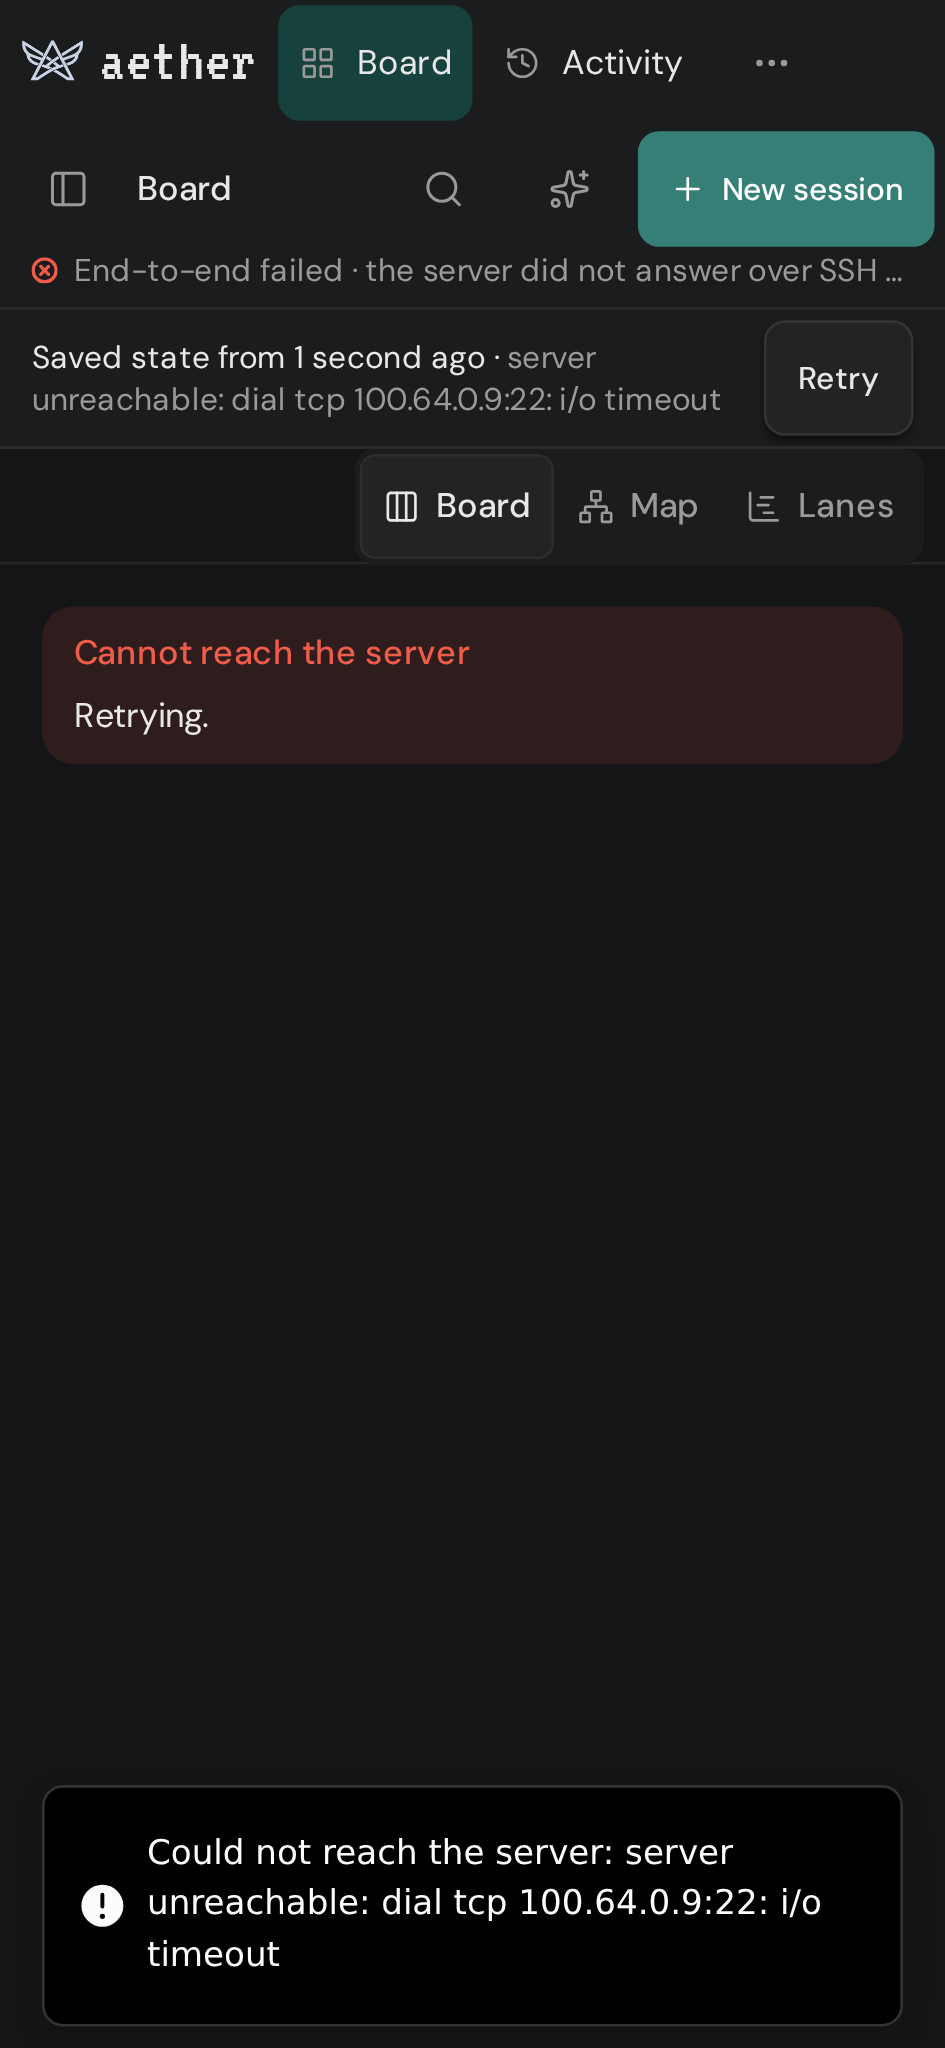
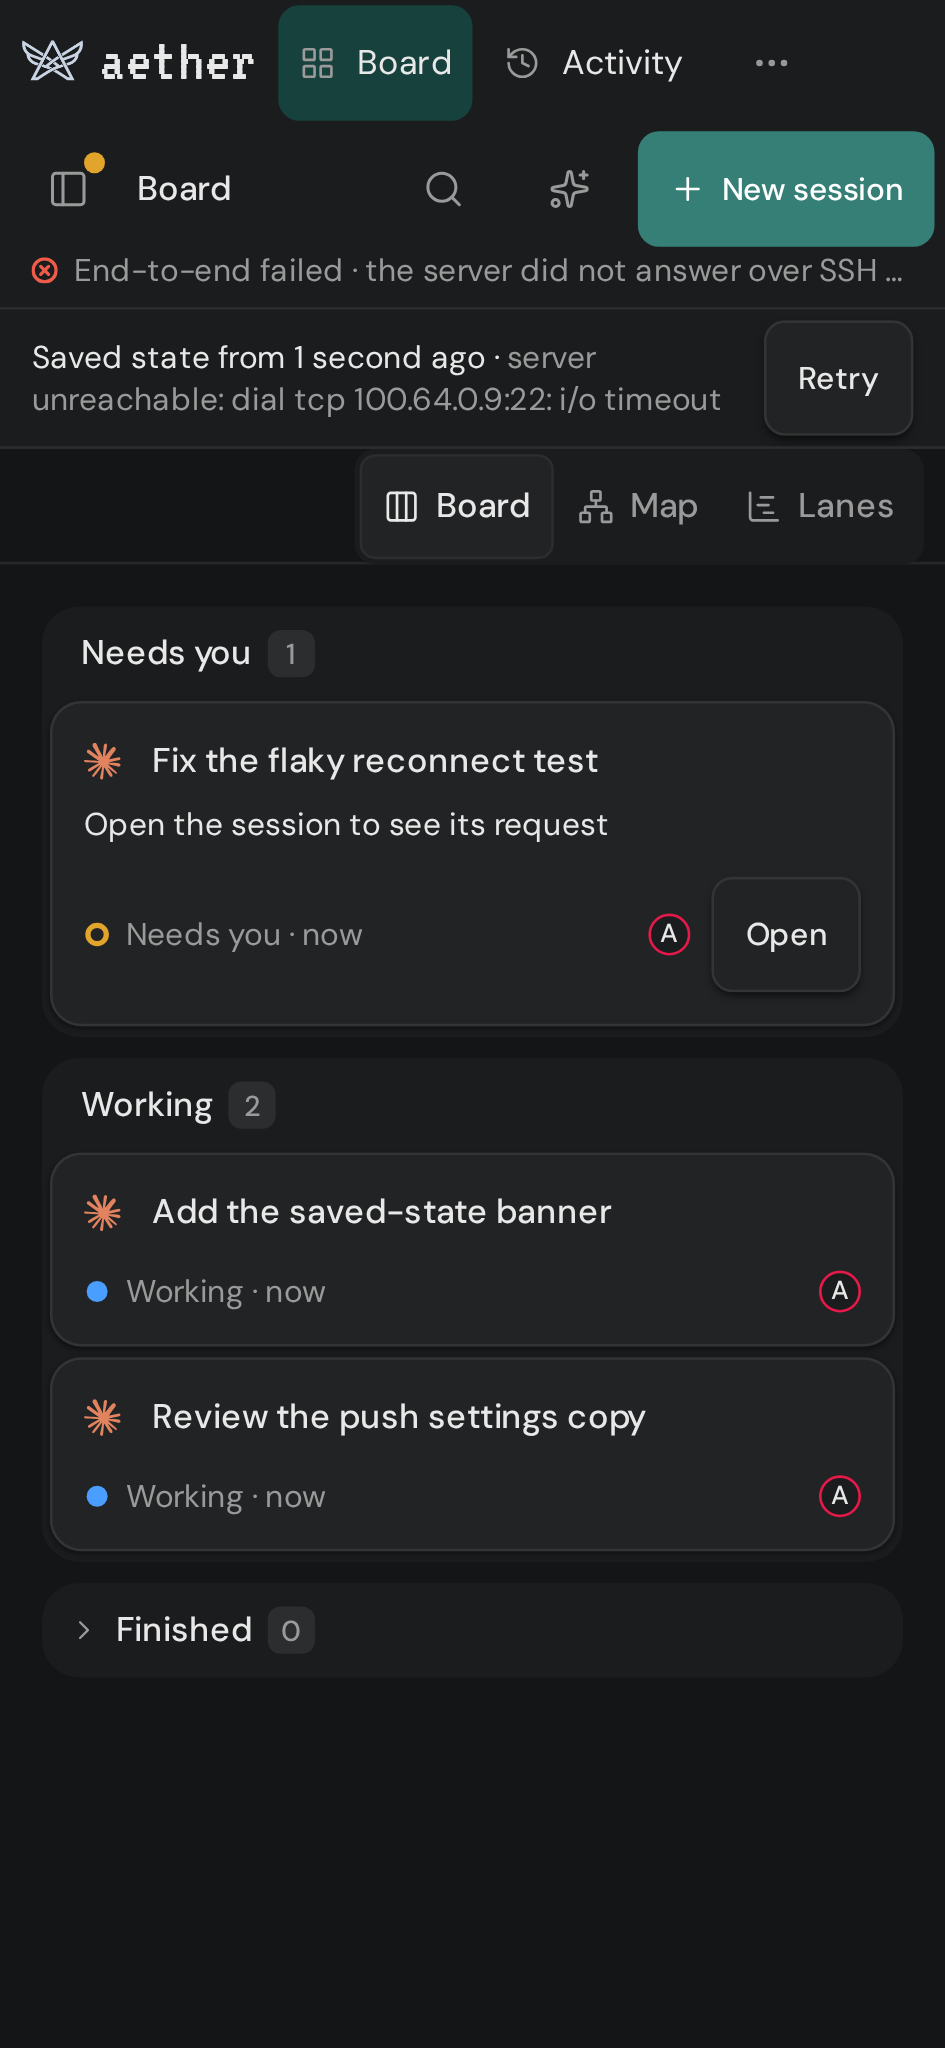
fix(dashboard): show an unreachable server once, on the saved-state line
The failure showed in the header, the saved-state line, a red card and a
toast. The toast is dropped (a dead token keeps its own): the banner
carries the real error and Retry, and the header line stays as the
hop-by-hop explanation. Screenshots now show a board with sessions.

diff --git a/web/src/App.tsx b/web/src/App.tsx
@@ -89,9 +89,9 @@ export function App() {
 
   useEffect(() => {
     if (!hydrationError || blocked || gated) return
-    // A dead token is not an unreachable server; its error already says how to recover.
+    // An unreachable server is the banner's line, with its Retry; only a dead
+    // token, whose error says how to recover, has no banner of its own.
     if (streamDead) toast.error(hydrationError)
-    else toast.error(`Could not reach the server: ${hydrationError}`)
   }, [hydrationError, streamDead, blocked, gated])
 
   const retry = useCallback(() => {
